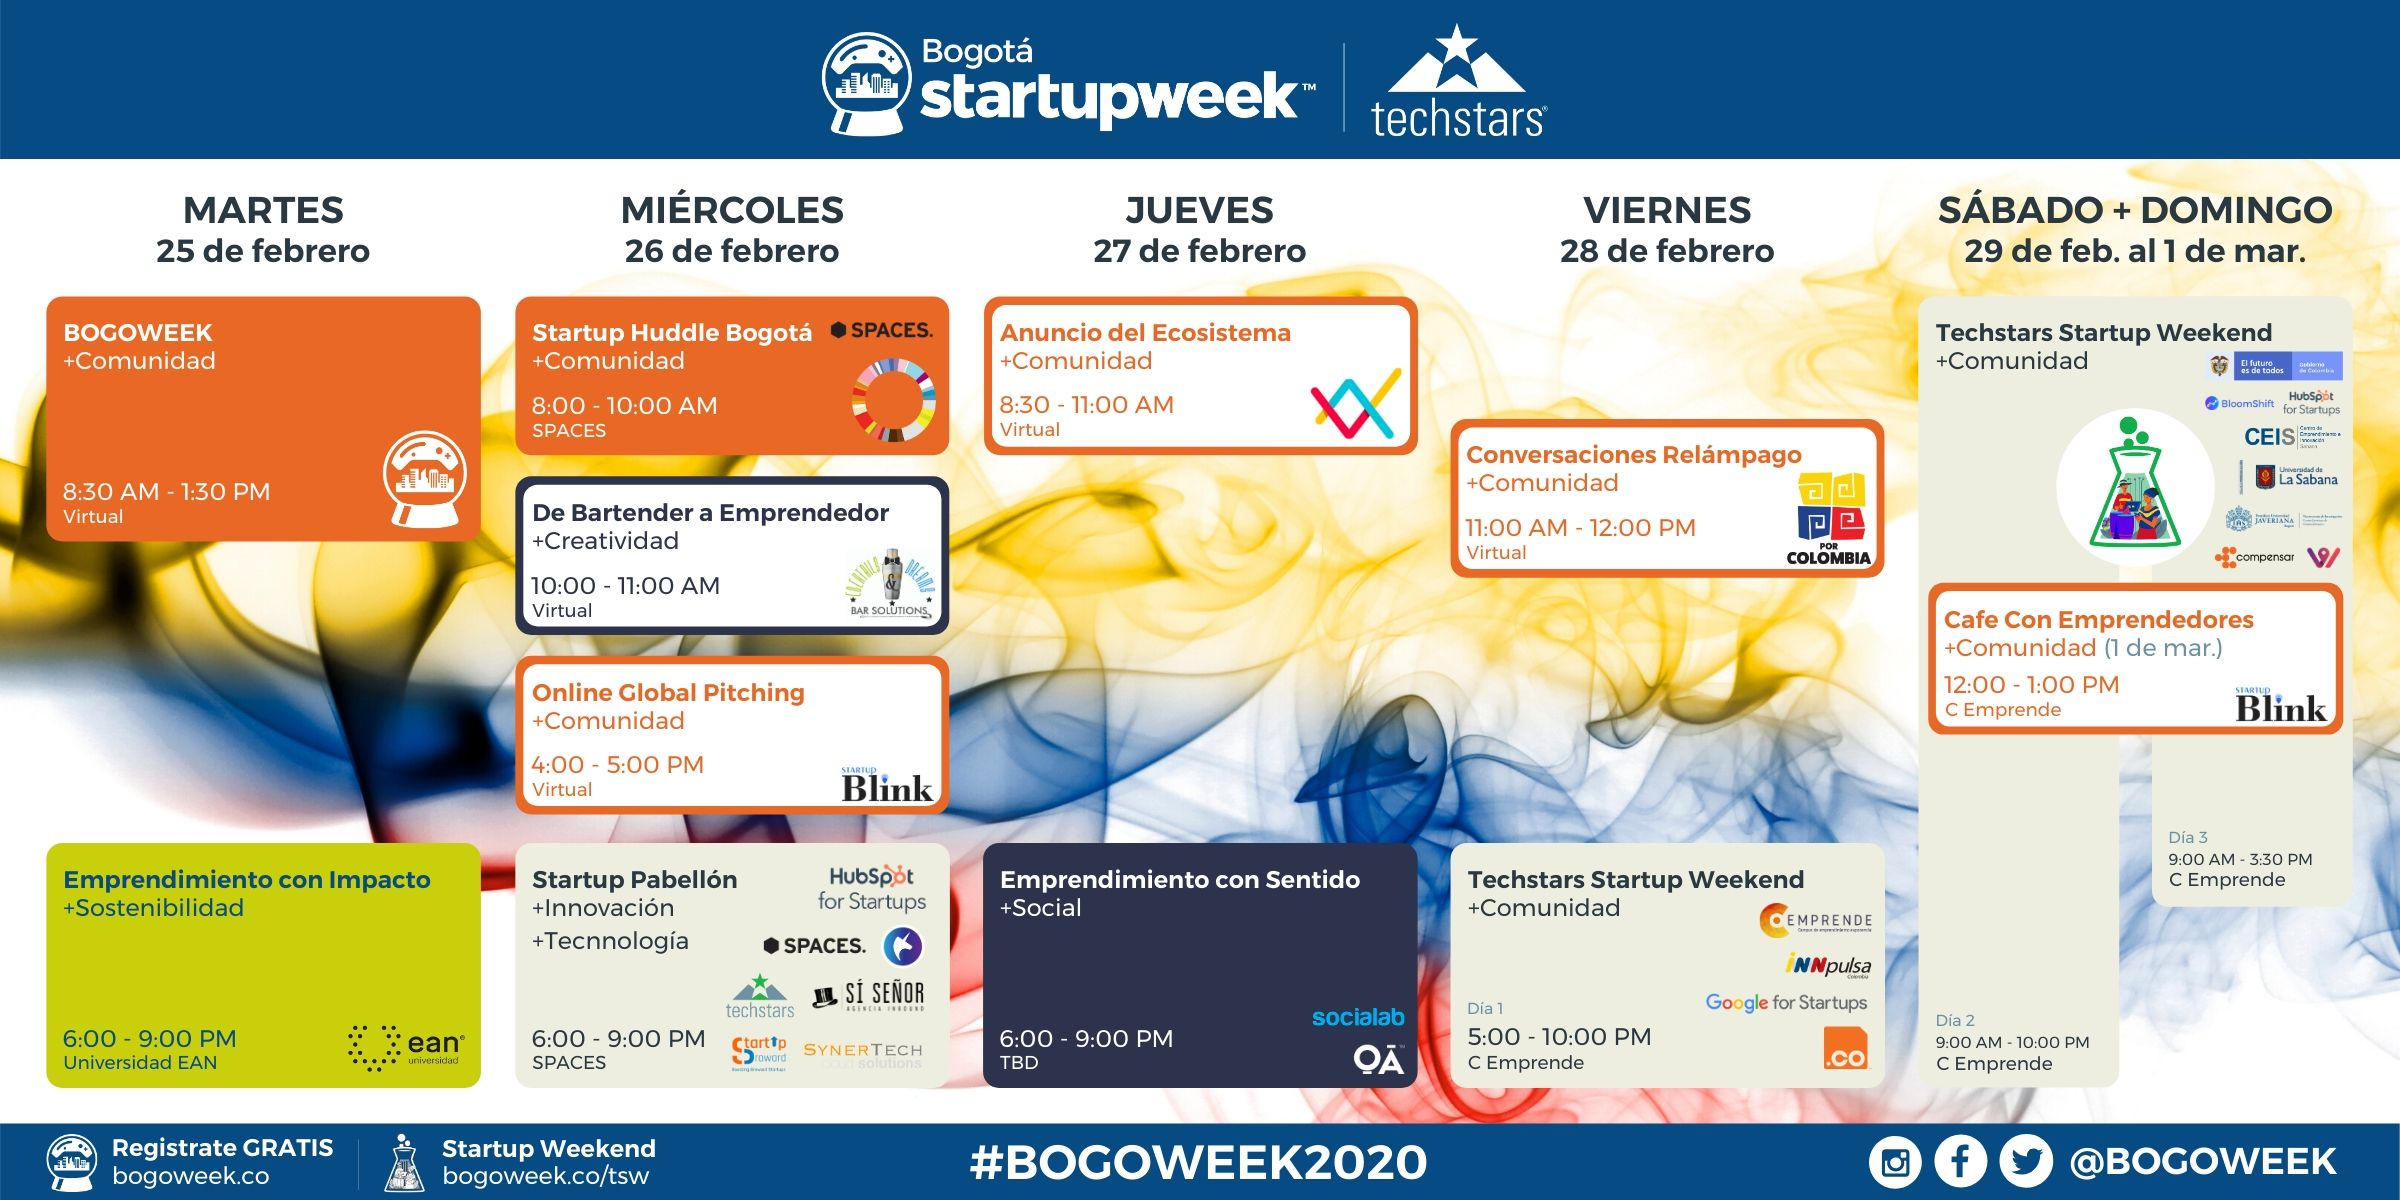
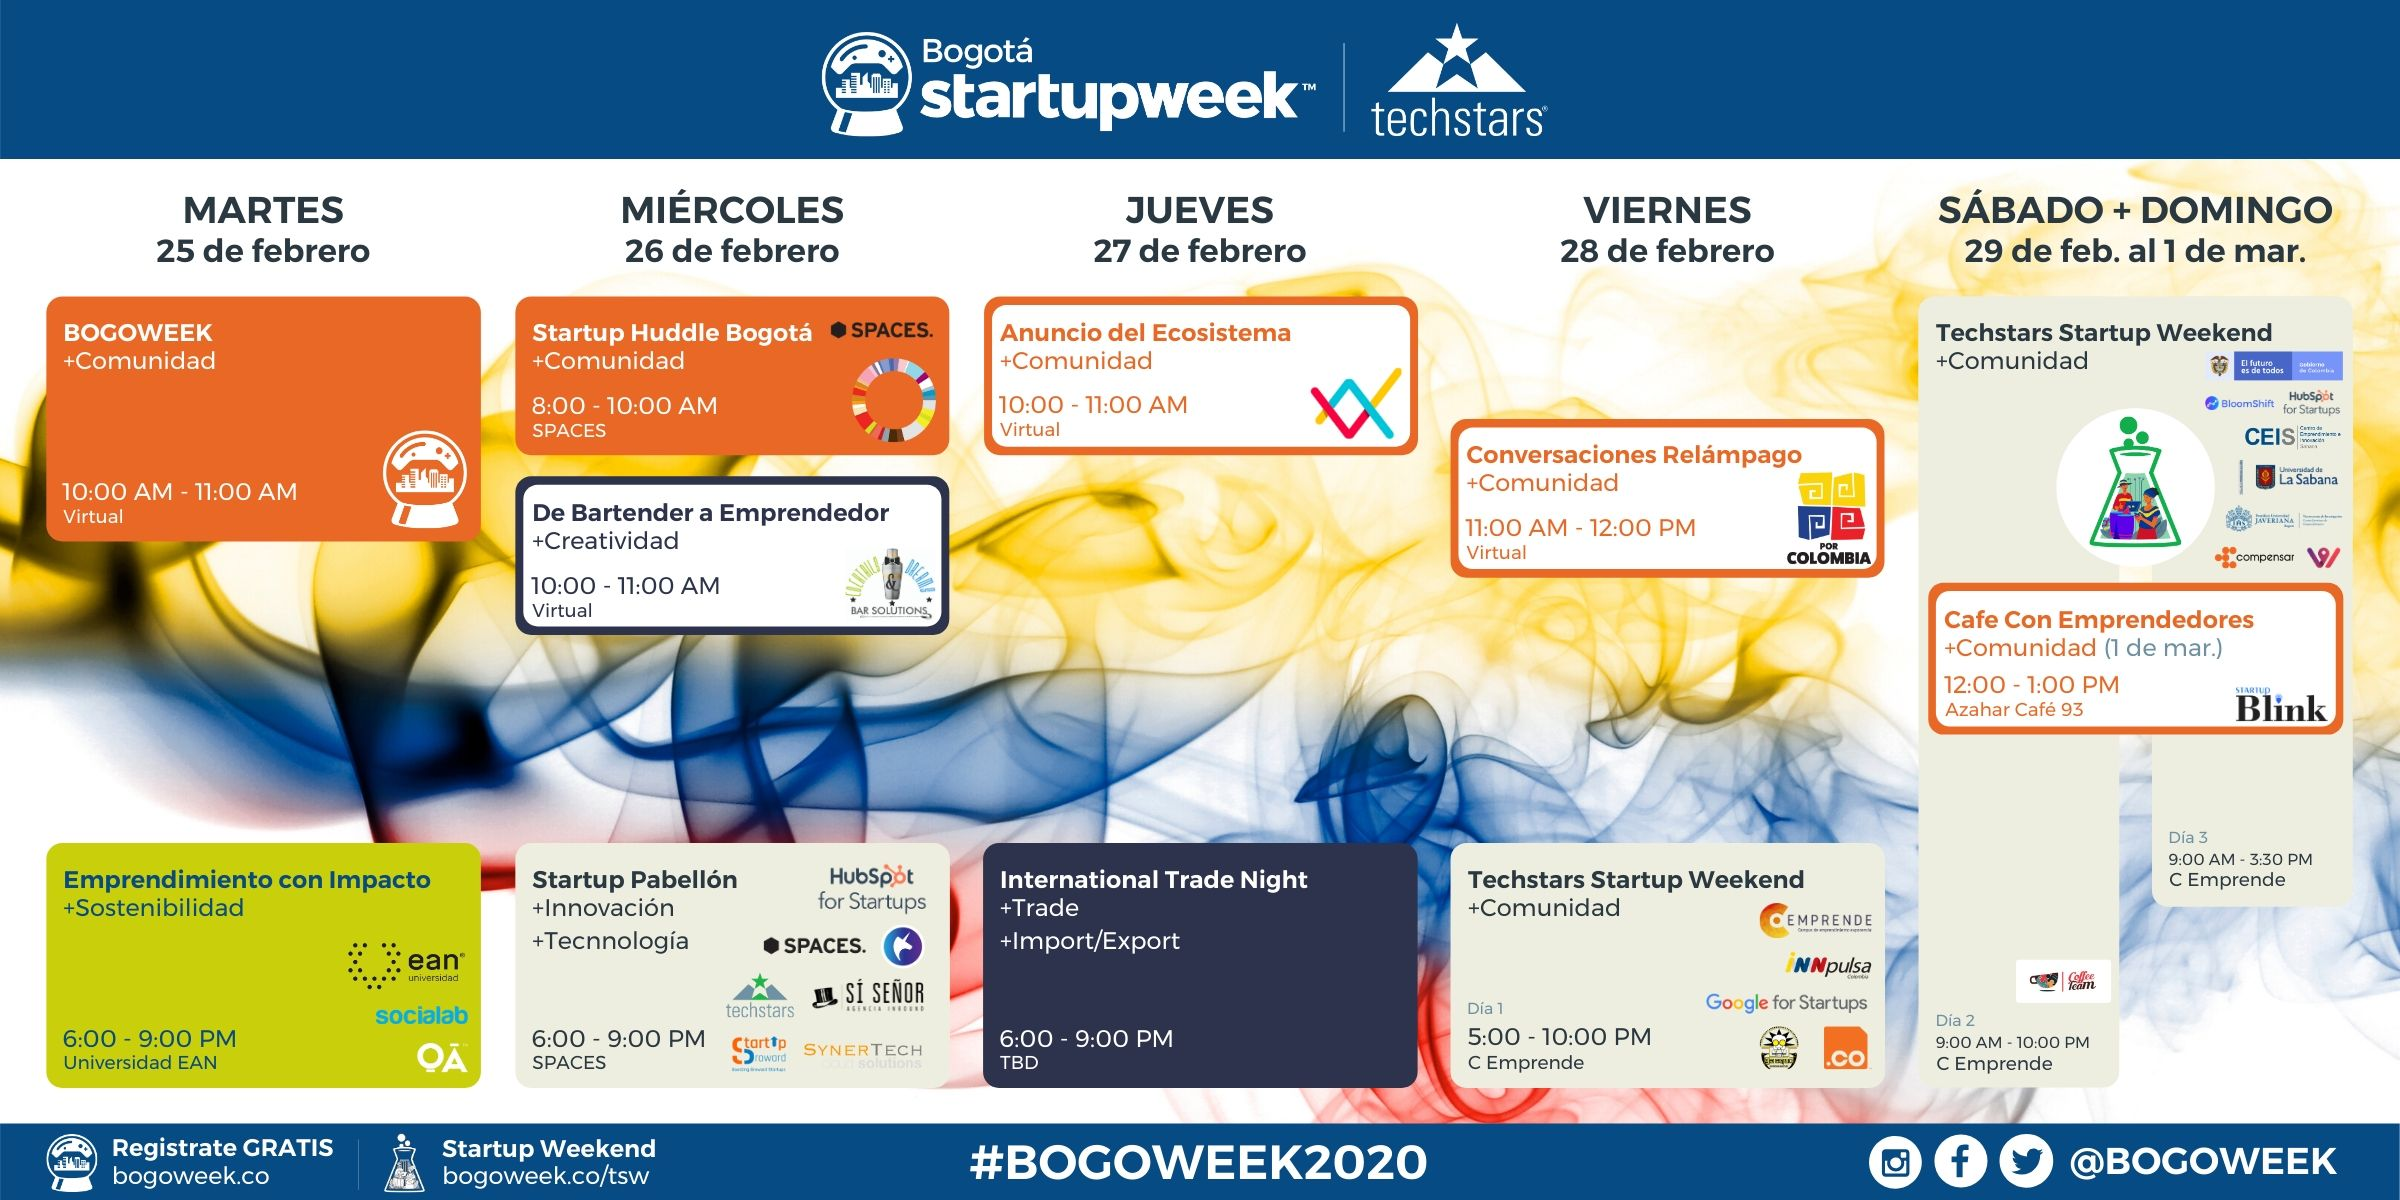
update schedule

diff --git a/_includes/twk_schedule-sec3.html b/_includes/twk_schedule-sec3.html
@@ -4,7 +4,7 @@
 			<div class="day">27 de febrero</div>
 			<div class="item clearfix">
 				<div class="heading clearfix">
-					<div class="time col-md-3 col-sm-12 col-xs-12">8:30am - 11:00am</div>
+					<div class="time col-md-3 col-sm-12 col-xs-12">10:00am - 11:00am</div>
 					<div class="e-title col-md-9 col-sm-12 col-xs-12">Anuncio Del Ecosistema<br/><span class="name">Eli Becerril Wong - </span><span class="speaker-designaition">Regional Manager LatAm, Techstars</span><br/><span class="name">Steven A. Rodriguez - </span><span class="speaker-designaition">Regional Manager US/Canada, Techstars</span><br/><span class="name">Laís de Oliveira - </span><span class="speaker-designaition">Director de Comunidad, Startup Genome</span><br/><span class="name">Marc Lissade - </span><span class="speaker-designaition">Fundador, Startup Broward</span></div>
 				</div>
 				<div class="col-md-12 col-sm-12 col-xs-12">
@@ -12,7 +12,11 @@
 						Virtual
 					</div>
 					<div class="content details col-md-9 col-sm-12 col-xs-12">
-					Más detalles en enero.
+					<p>Los ecosistemas de emprendimiento son importantes. Los buenos ecosistemas crean empleos, impulsan la economía, aumentan los ingresos fiscales, mejoran la calidad de vida y la innovación urbana, atraen y retienen talento. Solo hay dos opciones: avanzar o quedarse atrás. Hay una razón por la cual las ciudades líderes exitosas tienen grandes ecosistemas para startups.</p>
+					<br/>
+					<p>Y en la próxima década comenzaremos a ver nuevas ciudades surgir en el escenario internacional. Piense en Bogotá, Colombia o Miami, Florida (EE. UU.). Únase a nuestro panel de expertos para compartir cómo le está yendo a Colombia en comparación con otras partes de América Latina y en todo el mundo. Compartiremos algunas lecciones de aprendizaje y también brindaremos una visión más profunda de cómo está funcionando Bogotá, en particular.</p>
+					<br/>
+					<p>Colombia se encuentra en un período de crecimiento empresarial. Además de ciudades tradicionalmente conocidas como Bogotá o Medellín, nuevas regiones remotas de Colombia también se están uniendo a la actividad empresarial. Esto es en gran parte el resultado de interesados involucrados, promoviendo el espíritu empresarial en todo el país y reforzando la cultura empresarial para los ciudadanos colombianos de todas las edades.</p>
 					</div>
 				</div>
 			</div>
@@ -20,14 +24,16 @@
 			<div class="item clearfix">
 				<div class="heading">
 					<div class="time col-md-3 col-sm-12 col-xs-12">6:00pm - 9:00pm</div>
-					<div class="e-title col-md-9 col-sm-12 col-xs-12">Emprendimiento con Sentido<br/><span class="name">Ignacio Vidal - </span><span class="speaker-designaition">Fundador y CEO, Socialab</span><br/><span class="name">Steven A. Rodriguez - </span><span class="speaker-designaition">Regional Manager US/Canada, Techstars</span></div>
+					<div class="e-title col-md-9 col-sm-12 col-xs-12">International Trade Night<br/><span class="name">Ignacio Vidal - </span><span class="speaker-designaition">Fundador y CEO, Socialab</span><br/><span class="name">Steven A. Rodriguez - </span><span class="speaker-designaition">Regional Manager US/Canada, Techstars</span></div>
 				</div>
 				<div class="col-md-12 col-sm-12 col-xs-12">
 					<div class="content venue col-md-3 col-sm-12 col-xs-12">
 						Ubicación: TBD
 					</div>
 					<div class="content details col-md-9 col-sm-12 col-xs-12">
-					Más detalles en enero.
+					<p>// ENGLISH: If you are a small or mid-sized business looking to grow, it may be time to consider entering foreign markets. Several challenges hold many business owners back from achieving global growth. Chief among these is lack of knowledge about foreign trade and the worry of not getting paid. To help small business establish growth through foreign markets, ProColombia has assembled this primer session, providing you a step-by-step guide to get you started on expanding your business globally.</p>
+					<br/>
+					<p>// ESPAÑOL: Si usted es una pequeña o mediana empresa que busca crecer, puede ser hora de considerar ingresar a los mercados extranjeros. Varios desafíos impiden que muchos dueños de negocios logren el crecimiento global. La principal de ellas es la falta de conocimiento sobre el comercio exterior y la preocupación de no recibir pagos. Para ayudar a las pequeñas empresas a establecer un crecimiento a través de los mercados extranjeros, ProColombia ha reunido esta sesión de introducción, brindándole una guía paso a paso para comenzar a expandir su negocio a nivel mundial.</p>
 					</div>
 				</div>
 			</div>

diff --git a/_includes/twk_schedule-sec2.html b/_includes/twk_schedule-sec2.html
@@ -12,7 +12,7 @@
 						Ubicación: SPACES<br/>Cra. 11 #79 - 66 [<a href="https://techstarsstartupweekbogota2020.sched.com/venue/SPACES+80+Once" target="_blank">mapa</a>]
 					</div>
 					<div class="content details col-md-9 col-sm-12 col-xs-12">
-					Más detalles en enero.
+					<p>Basado en la idea de que los empresarios descubran soluciones y se comprometan con sus comunidades alrededor de más de un millón de tazas de café*, la Red Mundial del Emprendimiento desarrolló Startup Huddle en 2017, un programa gratuito diseñado para educar, atraer e inspirar a los empresarios de todo el mundo.</p>
 					</div>
 				</div>
 			</div>
@@ -27,22 +27,7 @@
 						Virtual
 					</div>
 					<div class="content details col-md-9 col-sm-12 col-xs-12">
-					Más detalles en enero.
-					</div>
-				</div>
-			</div>
-		  
-			<div class="item clearfix">
-				<div class="heading">
-					<div class="time col-md-3 col-sm-12 col-xs-12">4:00pm - 5:00pm</div>
-					<div class="e-title col-md-9 col-sm-12 col-xs-12">Online Global Pitching<br/><span class="name">Eli David - </span><span class="speaker-designaition">Fundador, Startup Blink</span></div>
-				</div>
-				<div class="col-md-12 col-sm-12 col-xs-12">
-					<div class="content venue col-md-3 col-sm-12 col-xs-12">
-						Virtual
-					</div>
-					<div class="content details col-md-9 col-sm-12 col-xs-12">
-					Más detalles en enero.
+					<p>¡La economía creativa encierra muchas cosas, desde artistas y diseñadores hasta chefs e incluso bartenders! Únase a nosotros para un cóctel virtual mientras exploramos cómo colisionan el mundo de la coctelería y el emprendimiento. Giancarlo Hincapié es un líder en esta industria y a través de su experiencia por más de 15 años en diferentes mercados, nos cuenta su historia y cómo el emprendimiento se  está posicionando en esta industria y dando diversas oportunidades a quienes hacen parte de ella.</p>
 					</div>
 				</div>
 			</div>
@@ -57,7 +42,9 @@
 						Ubicación: SPACES<br/>Cra. 11 #79-66 [<a href="https://techstarsstartupweekbogota2020.sched.com/venue/SPACES+80+Once" target="_blank">mapa</a>]
 					</div>
 					<div class="content details col-md-9 col-sm-12 col-xs-12">
-					Más detalles en enero.
+					<p>El Startup Pabellón es el espacio de la semana para aprender de los cracks de mercadeo, innovación y tecnología. Este día de  BOGOWEEK está liderado por HubSpot, quien nos acompaña Rafael Obando del programa de para Startups y HubSpot para Emprendedores en América Latina quien nos hablará de la estrategia de Inbound, desarrollada por HubSpot, donde los procesos de marketing, ventas, y servicio funcionan como motores que impulsan el Flywheel.</p>
+					<br/>
+					<p>Nos acompaña también Manuela Villegas CEO de Si Señor Agencia con una amplia experiencia en creación de comunidades, posicionamientos digitales de marca, desarrollos y estrategias para productos o servicios con ventas 100% digitales o asistidas.</p>
 					</div>
 				</div>
 			</div>

diff --git a/_includes/twk_schedule-sec5.html b/_includes/twk_schedule-sec5.html
@@ -9,10 +9,13 @@
 				</div>
 				<div class="col-md-12 col-sm-12 col-xs-12">
 					<div class="content venue col-md-3 col-sm-12 col-xs-12">
-						Ubicación: C Emprende<br/>Carrera 15 #93A-10 [<a href="https://techstarsstartupweekbogota2020.sched.com/venue/C+Emprende+-+Innpulsa+Colombia" target="_blank">mapa</a>]
+						Ubicación: Azahar Café 93<br/>Calle 93b #13-91 [<a href="https://techstarsstartupweekbogota2020.sched.com/venue/Azahar+Caf%C3%A9+93/Cl.+93b+%2313-91%2C+Bogot%C3%A1%2C+DC%2C+Colombia" target="_blank">mapa</a>]
 					</div>
 					<div class="content details col-md-9 col-sm-12 col-xs-12">
-					Más detalles en enero.
+					<p>Este evento reúne a un pequeño grupo de empresarios locales con una taza de café en un ambiente relajado e informal.</p>
+					<p>Aquí tendrá la oportunidad de presentar su negocio e ideas y no sólo escuchar sino también HABLAR. Es su oportunidad de reunirse con otros participantes de diversas industrias y encontrar los recursos que necesita, ya sean conexiones comerciales, nuevo cofundador, estímulo para comenzar una carrera independiente o incluso ideas para vender.</p>
+					<br/>
+					<p>A diferencia de otros eventos de Startup, el éxito del Weekend Coffee se basa únicamente en la asistencia de los participantes y la voluntad de liderar el evento, por lo tanto, al confirmar su asistencia, no solo asegura su asiento, sino que se convierte en el evento en sí. Por lo tanto, asegúrese de llegar ya que otros asistentes cuentan con usted.</p>
 					</div>
 				</div>
 			</div>
@@ -27,7 +30,7 @@
 						Ubicación: C Emprende<br/>Carrera 15 #93A-10 [<a href="https://techstarsstartupweekbogota2020.sched.com/venue/C+Emprende+-+Innpulsa+Colombia" target="_blank">mapa</a>]
 					</div>
 					<div class="content details col-md-9 col-sm-12 col-xs-12">
-					Más detalles en enero.
+					<p>Con BOGOWEEK concluyendo para 2020, ¡Esta es la última oportunidad! Si no pudo asistir a algunos de los eventos de la semana, no se preocupe, ¡aún puede unirse a nosotros en la ceremonia de clausura de BOGOWEEK podrá ver lo que cada equipo de Techstars Startup Weekend logró durante el fin de semana. Escuchar a los equipos participantes exponer sus ideas es emocionante, así como conectarse con los participantes y mentores.</p>
 					</div>
 				</div>
 			</div>

diff --git a/_includes/twk_schedule-sec1.html b/_includes/twk_schedule-sec1.html
@@ -4,19 +4,15 @@
 			<div class="day">25 de febrero</div>
 			<div class="item clearfix">
 				<div class="heading clearfix">
-					<div class="time col-md-3 col-sm-12 col-xs-12">8:30am - 1:30pm</div>
-					<div class="e-title col-md-9 col-sm-12 col-xs-12">
-						BOGOWEEK Apertura<br/>
-						<span class="name">Flor Liévano - </span>
-						<span class="speaker-designaition">Fundadora, OrangeUP</span>
-					</div>
+					<div class="time col-md-3 col-sm-12 col-xs-12">10:00am - 11:00am</div>
+					<div class="e-title col-md-9 col-sm-12 col-xs-12">BOGOWEEK Apertura<br/><span class="name">Flor Liévano - </span><span class="speaker-designaition">Fundadora, OrangeUP</span><br/><span class="name">Eli Becerril Wong - </span><span class="speaker-designaition">Regional Manager LatAm, Techstars</span><br/><span class="name">Steven A. Rodriguez - </span><span class="speaker-designaition">Regional Manager US/Canada, Techstars</span></div>
 				</div>
 				<div class="col-md-12 col-sm-12 col-xs-12">
 					<div class="content venue col-md-3 col-sm-12 col-xs-12">
 						Virtual
 					</div>
 					<div class="content details col-md-9 col-sm-12 col-xs-12">
-					Más detalles en enero.
+					<p>Con esta sesión le damos la bienvenida a toda la comunidad de Bogotá que se une a este Festival, una semana de celebración de emprendimiento alrededor de charlas, talleres, conferencias entre otros y que cerraremos con el Techstars Startup Weekend un programa de 54 horas diseñado para ayudar a las personas a iniciar, aprender y lanzar su negocio (startup).</p>
 					</div>
 				</div>
 			</div>
@@ -31,7 +27,10 @@
 						Ubicación: Universidad EAN<br/>Cl. 79 #11-45 [<a href="https://techstarsstartupweekbogota2020.sched.com/venue/Universidad+EAN" target="_blank">mapa</a>]
 					</div>
 					<div class="content details col-md-9 col-sm-12 col-xs-12">
-					Más detalles en enero.
+					<p>La Universidad EAN lidera este día con un panel para aprender cómo impulsar la creación y desarrollo de empresas de alto impacto comprometidas con la sostenibilidad social, económica y ambiental del país.</p>
+					<br/>
+					<p>Adicional aprenderemos de dos líderes del emprendimiento social en el país que no sueña con un mundo mejor, ¡lo construye!</p>
+					<p></p>
 					</div>
 				</div>
 			</div>

diff --git a/_includes/twk_schedule-sec4.html b/_includes/twk_schedule-sec4.html
@@ -12,7 +12,7 @@
 						Virtual
 					</div>
 					<div class="content details col-md-9 col-sm-12 col-xs-12">
-					Más detalles en enero.
+					<p>Únase al BOGOWEEK 'Conversaciones Relámpago' (Lightning Talks), impulsado por PorColombia, Una iniciativa para conectar a los empresarios Colombianos de Bogotá con los que residen en Washington, D.C. y de esta forma expandir la red de contactos a más fronteras y generar oportunidades de negocios.</p>
 					</div>
 				</div>
 			</div>
@@ -27,7 +27,9 @@
 						Ubicación: C Emprende<br/>Carrera 15 #93A-10 [<a href="https://techstarsstartupweekbogota2020.sched.com/venue/C+Emprende+-+Innpulsa+Colombia" target="_blank">mapa</a>]
 					</div>
 					<div class="content details col-md-9 col-sm-12 col-xs-12">
-					Techstars Startup Weekend es el lugar ideal para buscar un equipo, armar un prototipo, validar tu idea de negocio y recibir retroalimentación de parte de los jueces y mentores, todo en un fin de semana. Es una carrera de 3 días para lanzar nuevos productos y servicios que resuelven problemas del mundo real.<br/><br/>¡Startup Weekend es tu oportunidad de aprender a llevar cualquier idea desde el concepto hasta la creación en cuestión de días!
+					<p>Startup Weekend es el lugar ideal para buscar un equipo, armar un prototipo, validar tu idea de negocio y recibir retroalimentación de parte de los jueces y mentores, todo en un fin de semana. Es  un programa de 54 horas diseñado para ayudar a las personas a iniciar, aprender y lanzar su negocio (startup).</p>
+					<br/>
+					<p>¡Startup Weekend es tu oportunidad de aprender a llevar cualquier idea desde el concepto hasta la creación en cuestión de días!</p>
 					</div>
 				</div>
 			</div>
